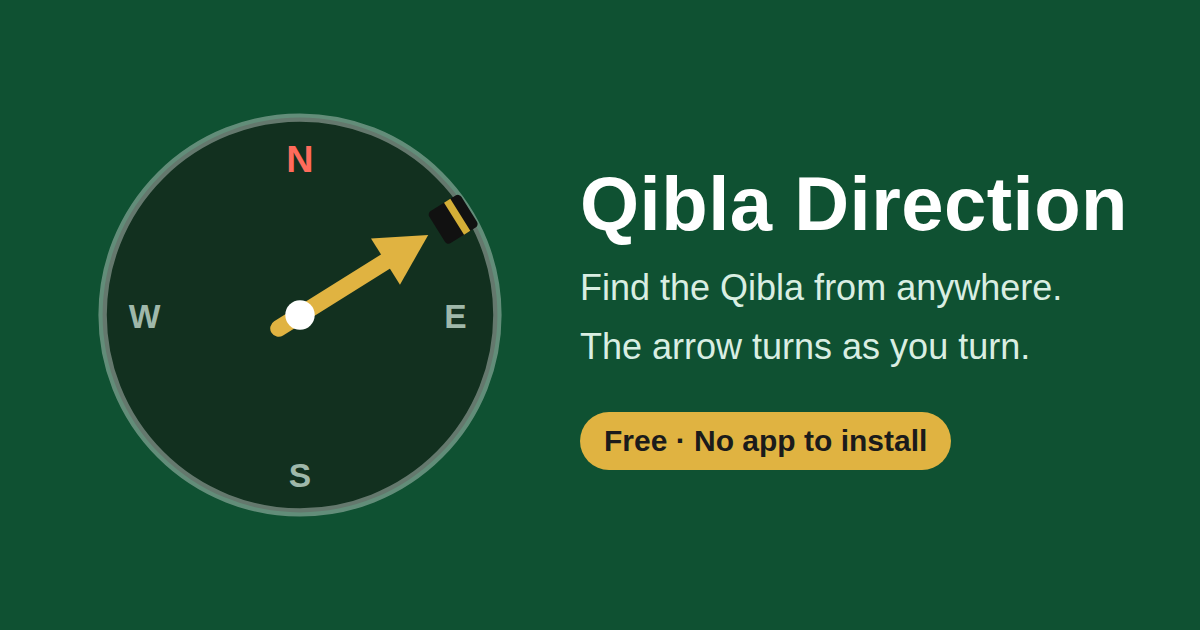
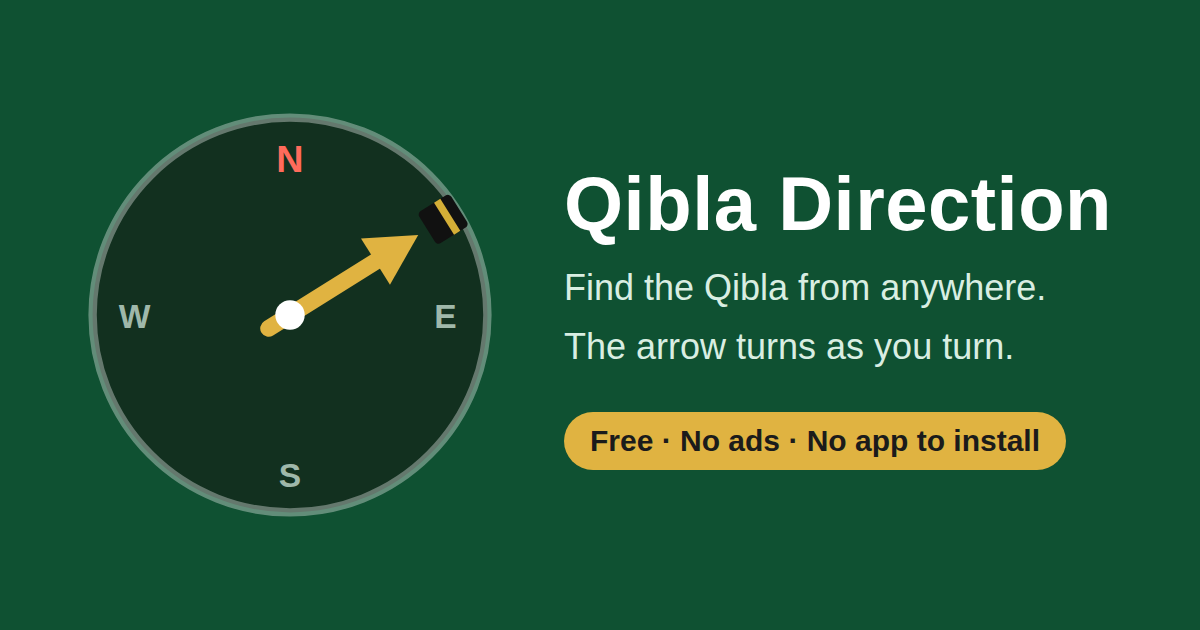
Add light/dark-green theme toggle; say 'No ads' in share preview
- Dark theme uses the deep green, dark green dial and gold arrow of the
  share image; it follows the phone's dark mode until the user picks a
  theme with the new toggle, and the choice is remembered on all pages
- Share image tag now reads 'Free · No ads · No app to install' and the
  link descriptions mention no ads; tools/share-image.js regenerates it

Claude-Session: https://claude.ai/code/session_01MB56SgCwCEeD9ZX4Uq6Mdx

diff --git a/tests/e2e.test.js b/tests/e2e.test.js
@@ -44,7 +44,8 @@ async function openApp(opts) {
     userAgent: opts.userAgent,
     serviceWorkers: 'block',
     permissions: opts.geo === false ? [] : ['geolocation'],
-    geolocation: opts.geo === false ? undefined : (opts.geo || NYC)
+    geolocation: opts.geo === false ? undefined : (opts.geo || NYC),
+    colorScheme: opts.colorScheme || 'light'
   });
   if (opts.initScript) await context.addInitScript(opts.initScript);
   await context.route('https://get.geojs.io/**', function (route) {
@@ -367,7 +368,7 @@ test('remembers the last location for the next visit', async function () {
 
 test('JavaScript is plain ES5 so it runs on older iPhones', function () {
   var acorn = require('acorn');
-  ['js/qibla.js', 'js/app.js', 'js/usage.js', 'js/contact.js', 'js/faq.js', 'sw.js'].forEach(function (f) {
+  ['js/qibla.js', 'js/app.js', 'js/usage.js', 'js/contact.js', 'js/faq.js', 'js/theme.js', 'sw.js'].forEach(function (f) {
     var src = fs.readFileSync(path.join(__dirname, '..', f), 'utf8');
     assert.doesNotThrow(function () { acorn.parse(src, { ecmaVersion: 5 }); }, f + ' is not ES5');
   });
@@ -475,5 +476,43 @@ test('stats page shows daily counts', async function () {
   await page.waitForFunction(function () { return document.querySelectorAll('#rows tr').length === 7; });
   assert.match(await page.textContent('#rows'), /\(today\)/);
   assert.deepEqual(app.errors, []);
+  await app.context.close();
+});
+
+function bodyBackground(page) {
+  return page.evaluate(function () { return getComputedStyle(document.body).backgroundColor; });
+}
+var DARK_GREEN = 'rgb(15, 74, 46)'; // #0f4a2e
+var LIGHT_BG = 'rgb(246, 245, 240)'; // #f6f5f0
+
+test('dark mode toggle switches to dark green and is remembered', async function () {
+  var app = await openApp({ userAgent: IPHONE_UA });
+  var page = app.page;
+  assert.equal(await bodyBackground(page), LIGHT_BG);
+  assert.match(await page.textContent('.js-theme-toggle'), /Dark/);
+  await page.click('.js-theme-toggle');
+  assert.equal(await bodyBackground(page), DARK_GREEN);
+  assert.match(await page.textContent('.js-theme-toggle'), /Light/);
+  assert.equal(await page.getAttribute('meta[name="theme-color"]', 'content'), '#0f4a2e');
+  // Remembered on reload and on the FAQ page.
+  await page.reload();
+  assert.equal(await bodyBackground(page), DARK_GREEN);
+  await page.goto(baseURL + 'faq.html');
+  assert.equal(await bodyBackground(page), DARK_GREEN);
+  await page.click('.js-theme-toggle');
+  assert.equal(await bodyBackground(page), LIGHT_BG);
+  assert.deepEqual(app.errors, []);
+  await app.context.close();
+});
+
+test('follows the phone dark mode until the user picks a theme', async function () {
+  var app = await openApp({ userAgent: IPHONE_UA, colorScheme: 'dark' });
+  var page = app.page;
+  assert.equal(await bodyBackground(page), DARK_GREEN);
+  assert.match(await page.textContent('.js-theme-toggle'), /Light/);
+  await page.click('.js-theme-toggle');
+  assert.equal(await bodyBackground(page), LIGHT_BG);
+  await page.reload();
+  assert.equal(await bodyBackground(page), LIGHT_BG);
   await app.context.close();
 });

diff --git a/css/style.css b/css/style.css
@@ -5,23 +5,45 @@
   --muted: #5d6b62;
   --card: #ffffff;
   --line: #d7dbd3;
+  --dial: #ffffff;
   --accent: #0f5132;
   --accent-fg: #ffffff;
   --qibla: #b8860b;
   --ok: #1e9e55;
+  --north: #c0392b;
+  --tick: #5d6b62;
 }
+/* Dark green theme: used when the phone is in dark mode, unless the user
+   picked light with the toggle, or whenever the user picked dark. */
 @media (prefers-color-scheme: dark) {
-  :root {
-    --bg: #0e1411;
-    --fg: #eef2ec;
-    --muted: #9aa89f;
-    --card: #18211c;
-    --line: #2c3a32;
-    --accent: #2f9e67;
-    --accent-fg: #ffffff;
+  :root:not([data-theme="light"]) {
+    --bg: #0f4a2e;
+    --fg: #ffffff;
+    --muted: #b9d4c4;
+    --card: #133a26;
+    --line: #2d5d43;
+    --dial: #122c1f;
+    --accent: #e0b341;
+    --accent-fg: #1b1b1b;
     --qibla: #e0b341;
-    --ok: #3ddc84;
+    --ok: #6ff0a6;
+    --north: #ff6b5b;
+    --tick: #9fbfae;
   }
+}
+:root[data-theme="dark"] {
+  --bg: #0f4a2e;
+  --fg: #ffffff;
+  --muted: #b9d4c4;
+  --card: #133a26;
+  --line: #2d5d43;
+  --dial: #122c1f;
+  --accent: #e0b341;
+  --accent-fg: #1b1b1b;
+  --qibla: #e0b341;
+  --ok: #6ff0a6;
+  --north: #ff6b5b;
+  --tick: #9fbfae;
 }
 
 * { -webkit-box-sizing: border-box; box-sizing: border-box; }
@@ -48,7 +70,8 @@ html, body {
 }
 
 .top h1 {
-  margin: 4px 0 2px;
+  margin: 0 0 4px;
+  line-height: 40px; /* leaves room for the theme button beside it */
   font-size: 26px;
   letter-spacing: 0.5px;
 }
@@ -88,8 +111,8 @@ html, body {
   will-change: transform;
 }
 .dial svg { display: block; overflow: visible; }
-.dial-face { fill: var(--card); stroke: var(--line); stroke-width: 2; }
-.tick { stroke: var(--muted); stroke-width: 1; }
+.dial-face { fill: var(--dial); stroke: var(--line); stroke-width: 2; }
+.tick { stroke: var(--tick); stroke-width: 1; }
 .tick-major { stroke: var(--fg); stroke-width: 2; }
 .card {
   fill: var(--muted);
@@ -97,7 +120,7 @@ html, body {
   font-weight: 700;
   text-anchor: middle;
 }
-.card-n { fill: #c0392b; }
+.card-n { fill: var(--north); }
 .arrow-shaft { stroke: var(--qibla); stroke-width: 7; stroke-linecap: round; }
 .arrow-head { fill: var(--qibla); }
 .kaaba rect { fill: #111; }
@@ -228,3 +251,24 @@ a.btn { text-decoration: none; line-height: 22px; }
 .stats-table { width: 100%; border-collapse: collapse; margin: 8px 0 16px; }
 .stats-table th, .stats-table td { padding: 10px 8px; border-bottom: 1px solid var(--line); text-align: left; }
 .stats-table td.num { text-align: right; font-variant-numeric: tabular-nums; }
+
+/* ---- Light / dark toggle ---- */
+.top { position: relative; }
+.theme-toggle {
+  position: absolute;
+  top: 0;
+  right: 0;
+  min-width: 44px;
+  height: 40px;
+  padding: 0 12px;
+  border: 1px solid var(--line);
+  border-radius: 22px;
+  background: var(--card);
+  color: var(--fg);
+  font-size: 14px;
+  font-weight: 600;
+  font-family: inherit;
+  -webkit-appearance: none;
+  cursor: pointer;
+}
+.faq .theme-toggle { top: 4px; }

diff --git a/index.html b/index.html
@@ -4,13 +4,13 @@
   <meta charset="utf-8">
   <meta name="viewport" content="width=device-width, initial-scale=1, viewport-fit=cover">
   <title>Qibla Direction</title>
-  <meta name="description" content="Free Qibla compass that works in your phone's browser. No app to install, no sign-up. Points to the Kaaba in Makkah and turns as you turn.">
+  <meta name="description" content="Free Qibla compass that works in your phone's browser. No app to install, no sign-up, no ads. Points to the Kaaba in Makkah and turns as you turn.">
 
   <!-- Link preview on WhatsApp, Facebook, X, Telegram, iMessage... -->
   <meta property="og:type" content="website">
   <meta property="og:site_name" content="Qibla Direction">
   <meta property="og:title" content="Qibla Direction: free Qibla compass in your browser">
-  <meta property="og:description" content="Find the Qibla from anywhere. No app to install, no sign-up. The arrow turns as you turn.">
+  <meta property="og:description" content="Find the Qibla from anywhere. No app to install, no sign-up, no ads. The arrow turns as you turn.">
   <meta property="og:url" content="https://umairzia.github.io/Qibla-directional-app-/">
   <meta property="og:image" content="https://umairzia.github.io/Qibla-directional-app-/icons/share.png">
   <meta property="og:image:width" content="1200">
@@ -18,7 +18,7 @@
   <meta property="og:image:alt" content="A compass arrow pointing to the Kaaba">
   <meta name="twitter:card" content="summary_large_image">
   <meta name="twitter:title" content="Qibla Direction: free Qibla compass in your browser">
-  <meta name="twitter:description" content="Find the Qibla from anywhere. No app to install, no sign-up. The arrow turns as you turn.">
+  <meta name="twitter:description" content="Find the Qibla from anywhere. No app to install, no sign-up, no ads. The arrow turns as you turn.">
   <meta name="twitter:image" content="https://umairzia.github.io/Qibla-directional-app-/icons/share.png">
   <meta name="theme-color" content="#0f5132">
   <meta name="apple-mobile-web-app-capable" content="yes">
@@ -29,10 +29,12 @@
   <link rel="icon" type="image/png" href="icons/icon-192.png">
   <link rel="manifest" href="manifest.webmanifest">
   <link rel="stylesheet" href="css/style.css">
+  <script src="js/theme.js"></script>
 </head>
 <body>
   <main class="app">
     <header class="top">
+      <button class="theme-toggle js-theme-toggle" type="button">Dark</button>
       <h1>Qibla</h1>
       <p id="location" class="location">Finding your location&hellip;</p>
     </header>

diff --git a/tools/share-image.js b/tools/share-image.js
@@ -1,0 +1,35 @@
+// Regenerates icons/share.png (the 1200x630 link preview image).
+// Run: node tools/share-image.js   (needs: npm install)
+var chromium = require('playwright').chromium;
+var path = require('path');
+
+var TAG = 'Free · No ads · No app to install';
+
+var html = '<style>' +
+  'body{margin:0;width:1200px;height:630px;background:#0f5132;font-family:-apple-system,"Segoe UI",Roboto,Helvetica,Arial,sans-serif;color:#fff;display:flex;align-items:center}' +
+  '.dial{margin-left:80px;flex:none}.txt{margin-left:64px}' +
+  'h1{font-size:76px;margin:0 0 18px;letter-spacing:.5px}' +
+  'p{font-size:36px;margin:0 0 12px;color:#d9eee2;line-height:1.3}' +
+  '.tag{margin-top:30px;display:inline-block;background:#e0b341;color:#1b1b1b;font-weight:700;font-size:30px;padding:12px 26px;border-radius:40px}' +
+  '</style>' +
+  '<svg class="dial" width="420" height="420" viewBox="0 0 200 200">' +
+  '<circle cx="100" cy="100" r="94" fill="#12301f" stroke="#ffffff" stroke-opacity=".35" stroke-width="4"/>' +
+  '<text x="100" y="32" fill="#ff6b5b" font-size="18" font-weight="700" text-anchor="middle" font-family="Arial">N</text>' +
+  '<text x="174" y="106" fill="#9fb8aa" font-size="16" font-weight="700" text-anchor="middle" font-family="Arial">E</text>' +
+  '<text x="100" y="182" fill="#9fb8aa" font-size="16" font-weight="700" text-anchor="middle" font-family="Arial">S</text>' +
+  '<text x="26" y="106" fill="#9fb8aa" font-size="16" font-weight="700" text-anchor="middle" font-family="Arial">W</text>' +
+  '<g transform="rotate(58 100 100)">' +
+  '<line x1="100" y1="112" x2="100" y2="42" stroke="#e0b341" stroke-width="8" stroke-linecap="round"/>' +
+  '<polygon points="100,28 87,52 113,52" fill="#e0b341"/>' +
+  '<g transform="translate(100 14)"><rect x="-9" y="-9" width="18" height="18" rx="2" fill="#111"/><rect x="-9" y="-4" width="18" height="3.5" fill="#d4af37"/></g>' +
+  '</g><circle cx="100" cy="100" r="7" fill="#fff"/></svg>' +
+  '<div class="txt"><h1>Qibla Direction</h1><p>Find the Qibla from anywhere.</p><p>The arrow turns as you turn.</p>' +
+  '<span class="tag">' + TAG + '</span></div>';
+
+(async function () {
+  var browser = await chromium.launch();
+  var page = await browser.newPage({ viewport: { width: 1200, height: 630 } });
+  await page.setContent(html);
+  await page.screenshot({ path: path.join(__dirname, '..', 'icons', 'share.png') });
+  await browser.close();
+})();

diff --git a/js/theme.js b/js/theme.js
@@ -1,0 +1,66 @@
+/*
+ * Light / dark-green theme toggle. Loaded in <head> so the saved choice is
+ * applied before the page is drawn (no flash of the wrong colours).
+ * With no saved choice the page follows the phone's own dark mode setting.
+ * Plain ES5 for older iPhones.
+ */
+(function () {
+  'use strict';
+
+  var KEY = 'qibla.theme';
+  var root = document.documentElement;
+  var COLORS = { light: '#0f5132', dark: '#0f4a2e' };
+
+  function saved() {
+    try { return window.localStorage.getItem(KEY); } catch (e) { return null; }
+  }
+
+  function systemDark() {
+    return !!(window.matchMedia && window.matchMedia('(prefers-color-scheme: dark)').matches);
+  }
+
+  function current() {
+    var t = root.getAttribute('data-theme');
+    if (t === 'light' || t === 'dark') return t;
+    return systemDark() ? 'dark' : 'light';
+  }
+
+  function updateButtons() {
+    var dark = current() === 'dark';
+    var buttons = document.querySelectorAll('.js-theme-toggle');
+    for (var i = 0; i < buttons.length; i++) {
+      // The button offers the other theme.
+      buttons[i].textContent = dark ? '☀ Light' : '🌙 Dark';
+      buttons[i].setAttribute('aria-label', dark ? 'Switch to light mode' : 'Switch to dark mode');
+    }
+    var meta = document.querySelector('meta[name="theme-color"]');
+    if (meta) meta.setAttribute('content', COLORS[current()]);
+  }
+
+  function toggle() {
+    var next = current() === 'dark' ? 'light' : 'dark';
+    root.setAttribute('data-theme', next);
+    try { window.localStorage.setItem(KEY, next); } catch (e) { /* private mode */ }
+    updateButtons();
+  }
+
+  var choice = saved();
+  if (choice === 'light' || choice === 'dark') root.setAttribute('data-theme', choice);
+
+  function init() {
+    var buttons = document.querySelectorAll('.js-theme-toggle');
+    for (var i = 0; i < buttons.length; i++) buttons[i].addEventListener('click', toggle, false);
+    updateButtons();
+    // Keep the label right if the phone switches dark mode while open.
+    if (window.matchMedia) {
+      var mq = window.matchMedia('(prefers-color-scheme: dark)');
+      if (mq.addListener) mq.addListener(updateButtons);
+    }
+  }
+
+  if (document.readyState === 'loading') {
+    document.addEventListener('DOMContentLoaded', init, false);
+  } else {
+    init();
+  }
+})();

diff --git a/faq.html b/faq.html
@@ -9,9 +9,11 @@
   <link rel="apple-touch-icon" href="icons/icon-180.png">
   <link rel="icon" type="image/png" href="icons/icon-192.png">
   <link rel="stylesheet" href="css/style.css">
+  <script src="js/theme.js"></script>
 </head>
 <body>
   <main class="app faq">
+    <button class="theme-toggle js-theme-toggle" type="button">Dark</button>
     <p class="back"><a href="./">&larr; Back to the compass</a></p>
     <h1>Help &amp; FAQ</h1>
     <p class="lead">Most problems can be fixed in a minute. Tap a question to see the answer.</p>

diff --git a/stats.html b/stats.html
@@ -7,9 +7,11 @@
   <title>Usage Stats – Qibla Direction</title>
   <link rel="icon" type="image/png" href="icons/icon-192.png">
   <link rel="stylesheet" href="css/style.css">
+  <script src="js/theme.js"></script>
 </head>
 <body>
   <main class="app faq">
+    <button class="theme-toggle js-theme-toggle" type="button">Dark</button>
     <p class="back"><a href="./">&larr; Back to the compass</a></p>
     <h1>Daily usage</h1>
     <p class="lead">Anonymous counts of devices per day (UTC). Each device is counted once a day.</p>

diff --git a/sw.js b/sw.js
@@ -1,12 +1,13 @@
 /* Minimal offline support: network-first for the app's own files, so the
    compass keeps working without signal after the first visit. */
-var CACHE = 'qibla-v3';
+var CACHE = 'qibla-v4';
 var SHELL = [
   './',
   'index.html',
   'faq.html',
   'css/style.css',
   'js/qibla.js',
+  'js/theme.js',
   'js/usage.js',
   'js/contact.js',
   'js/faq.js',
